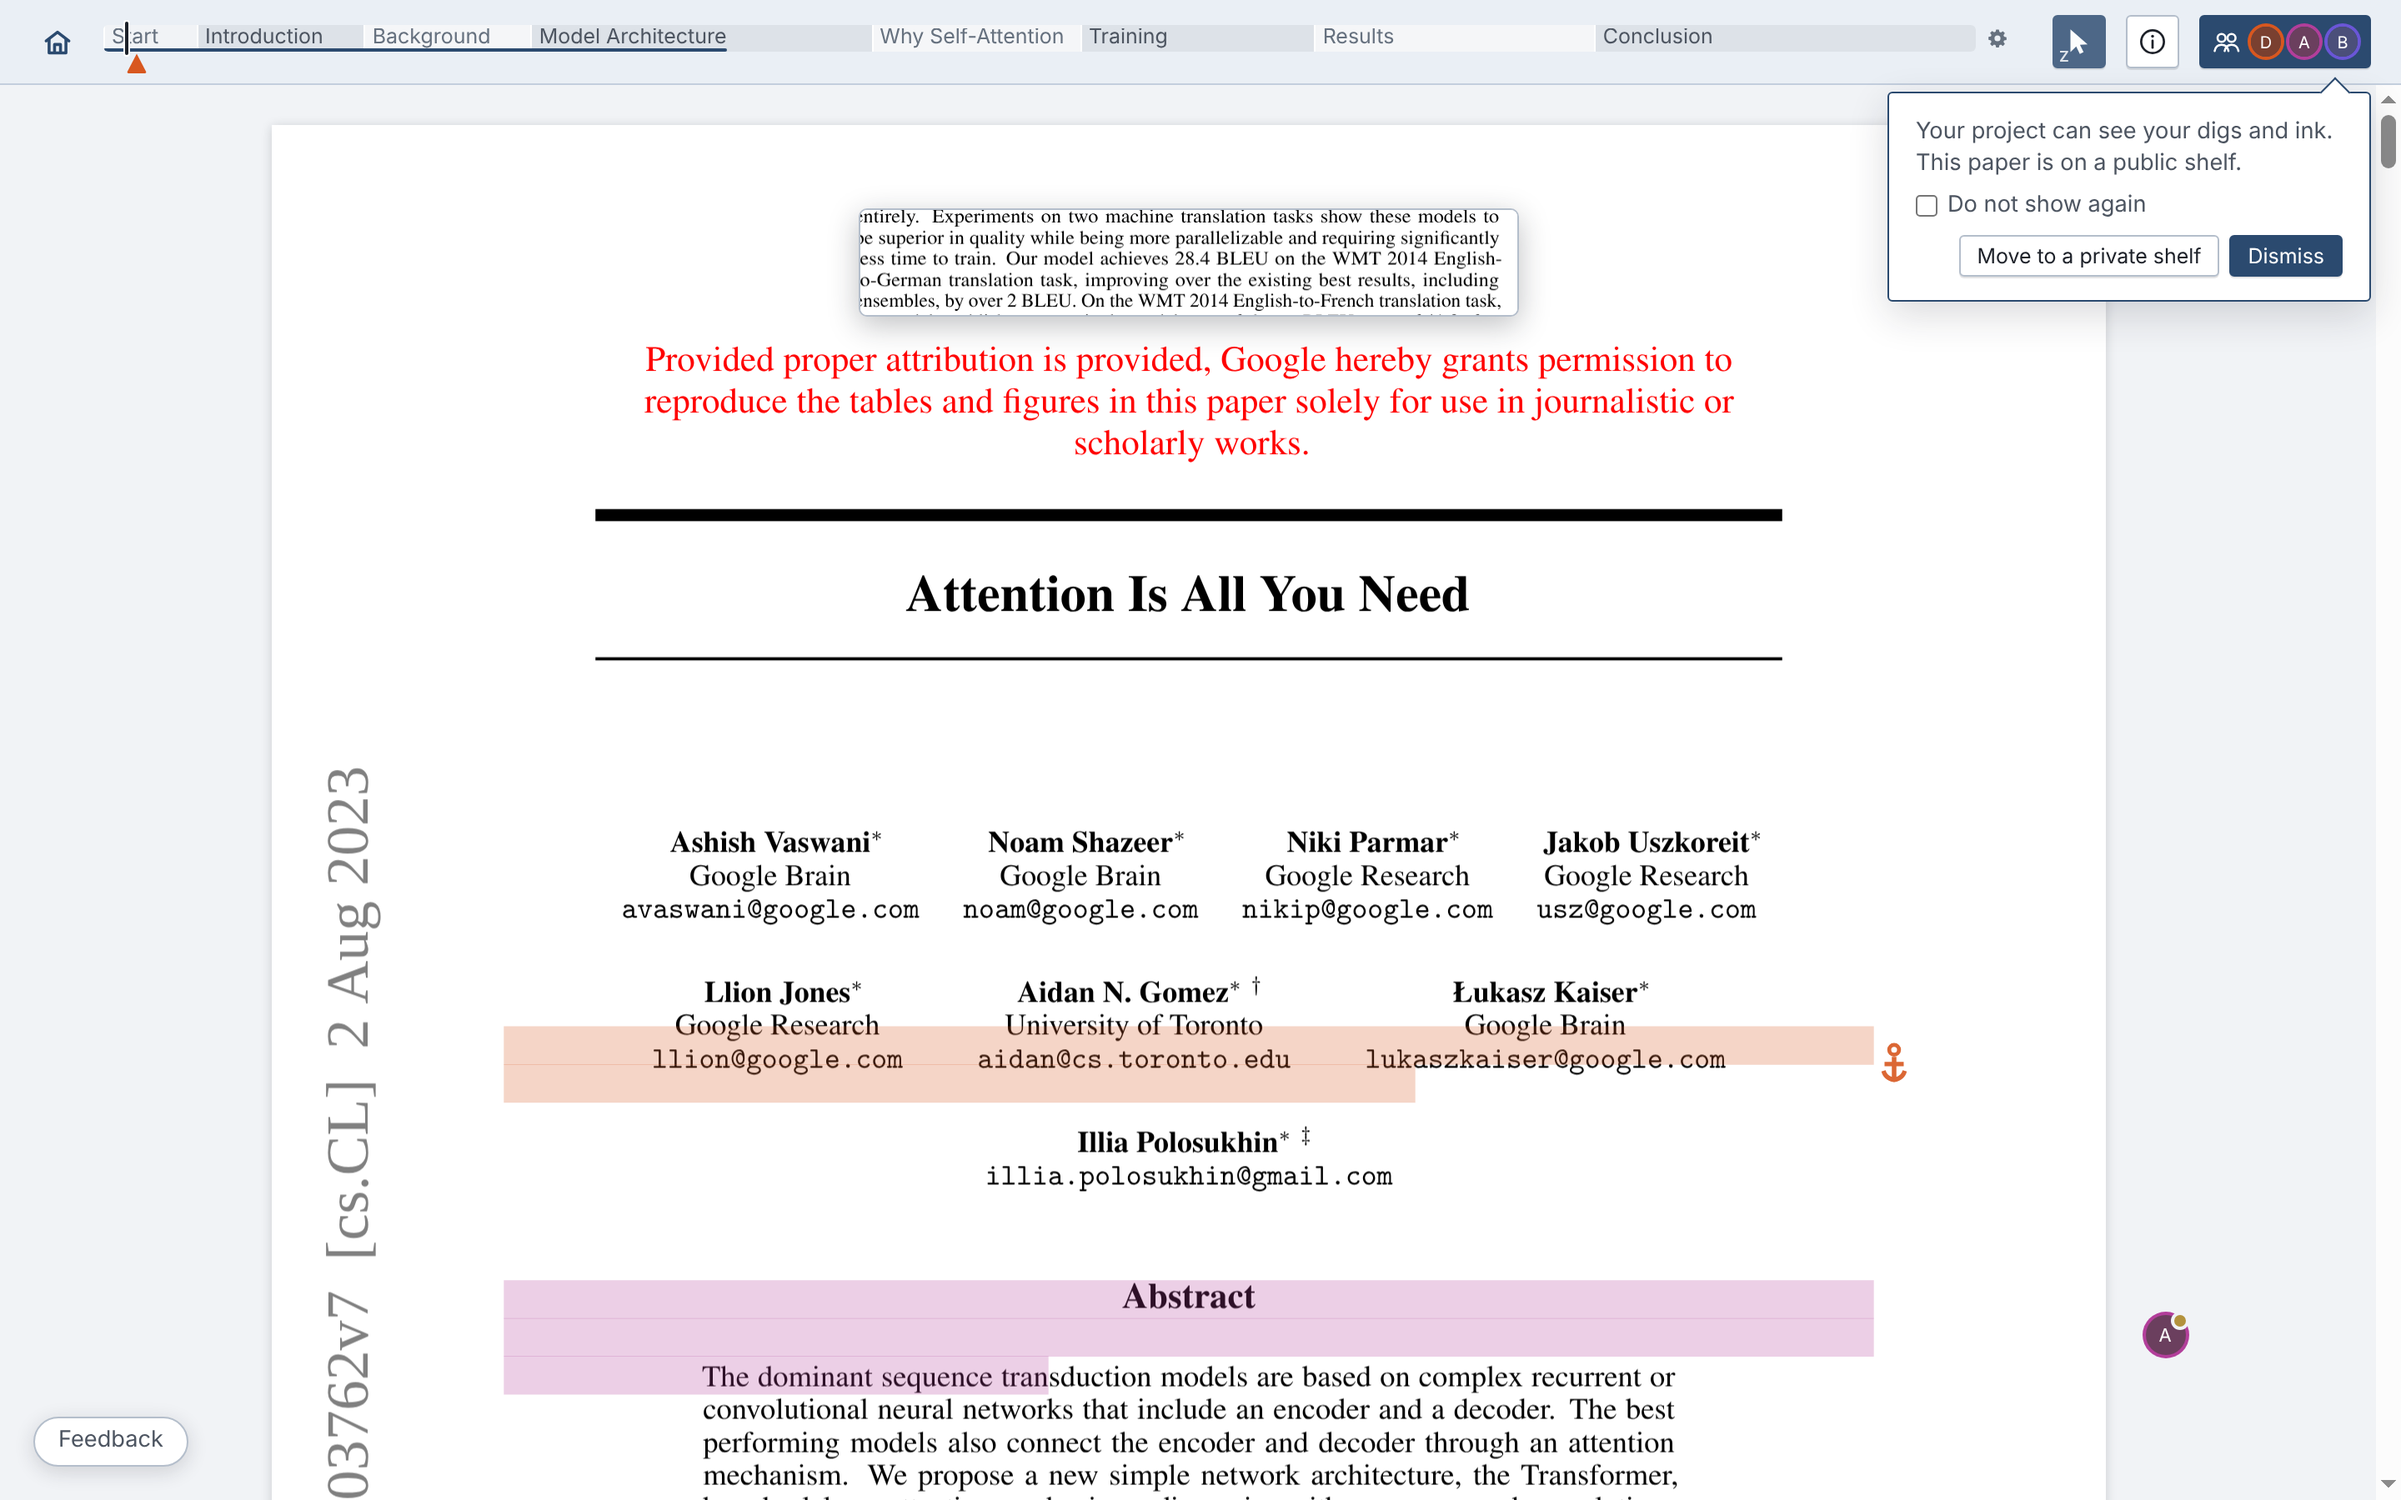
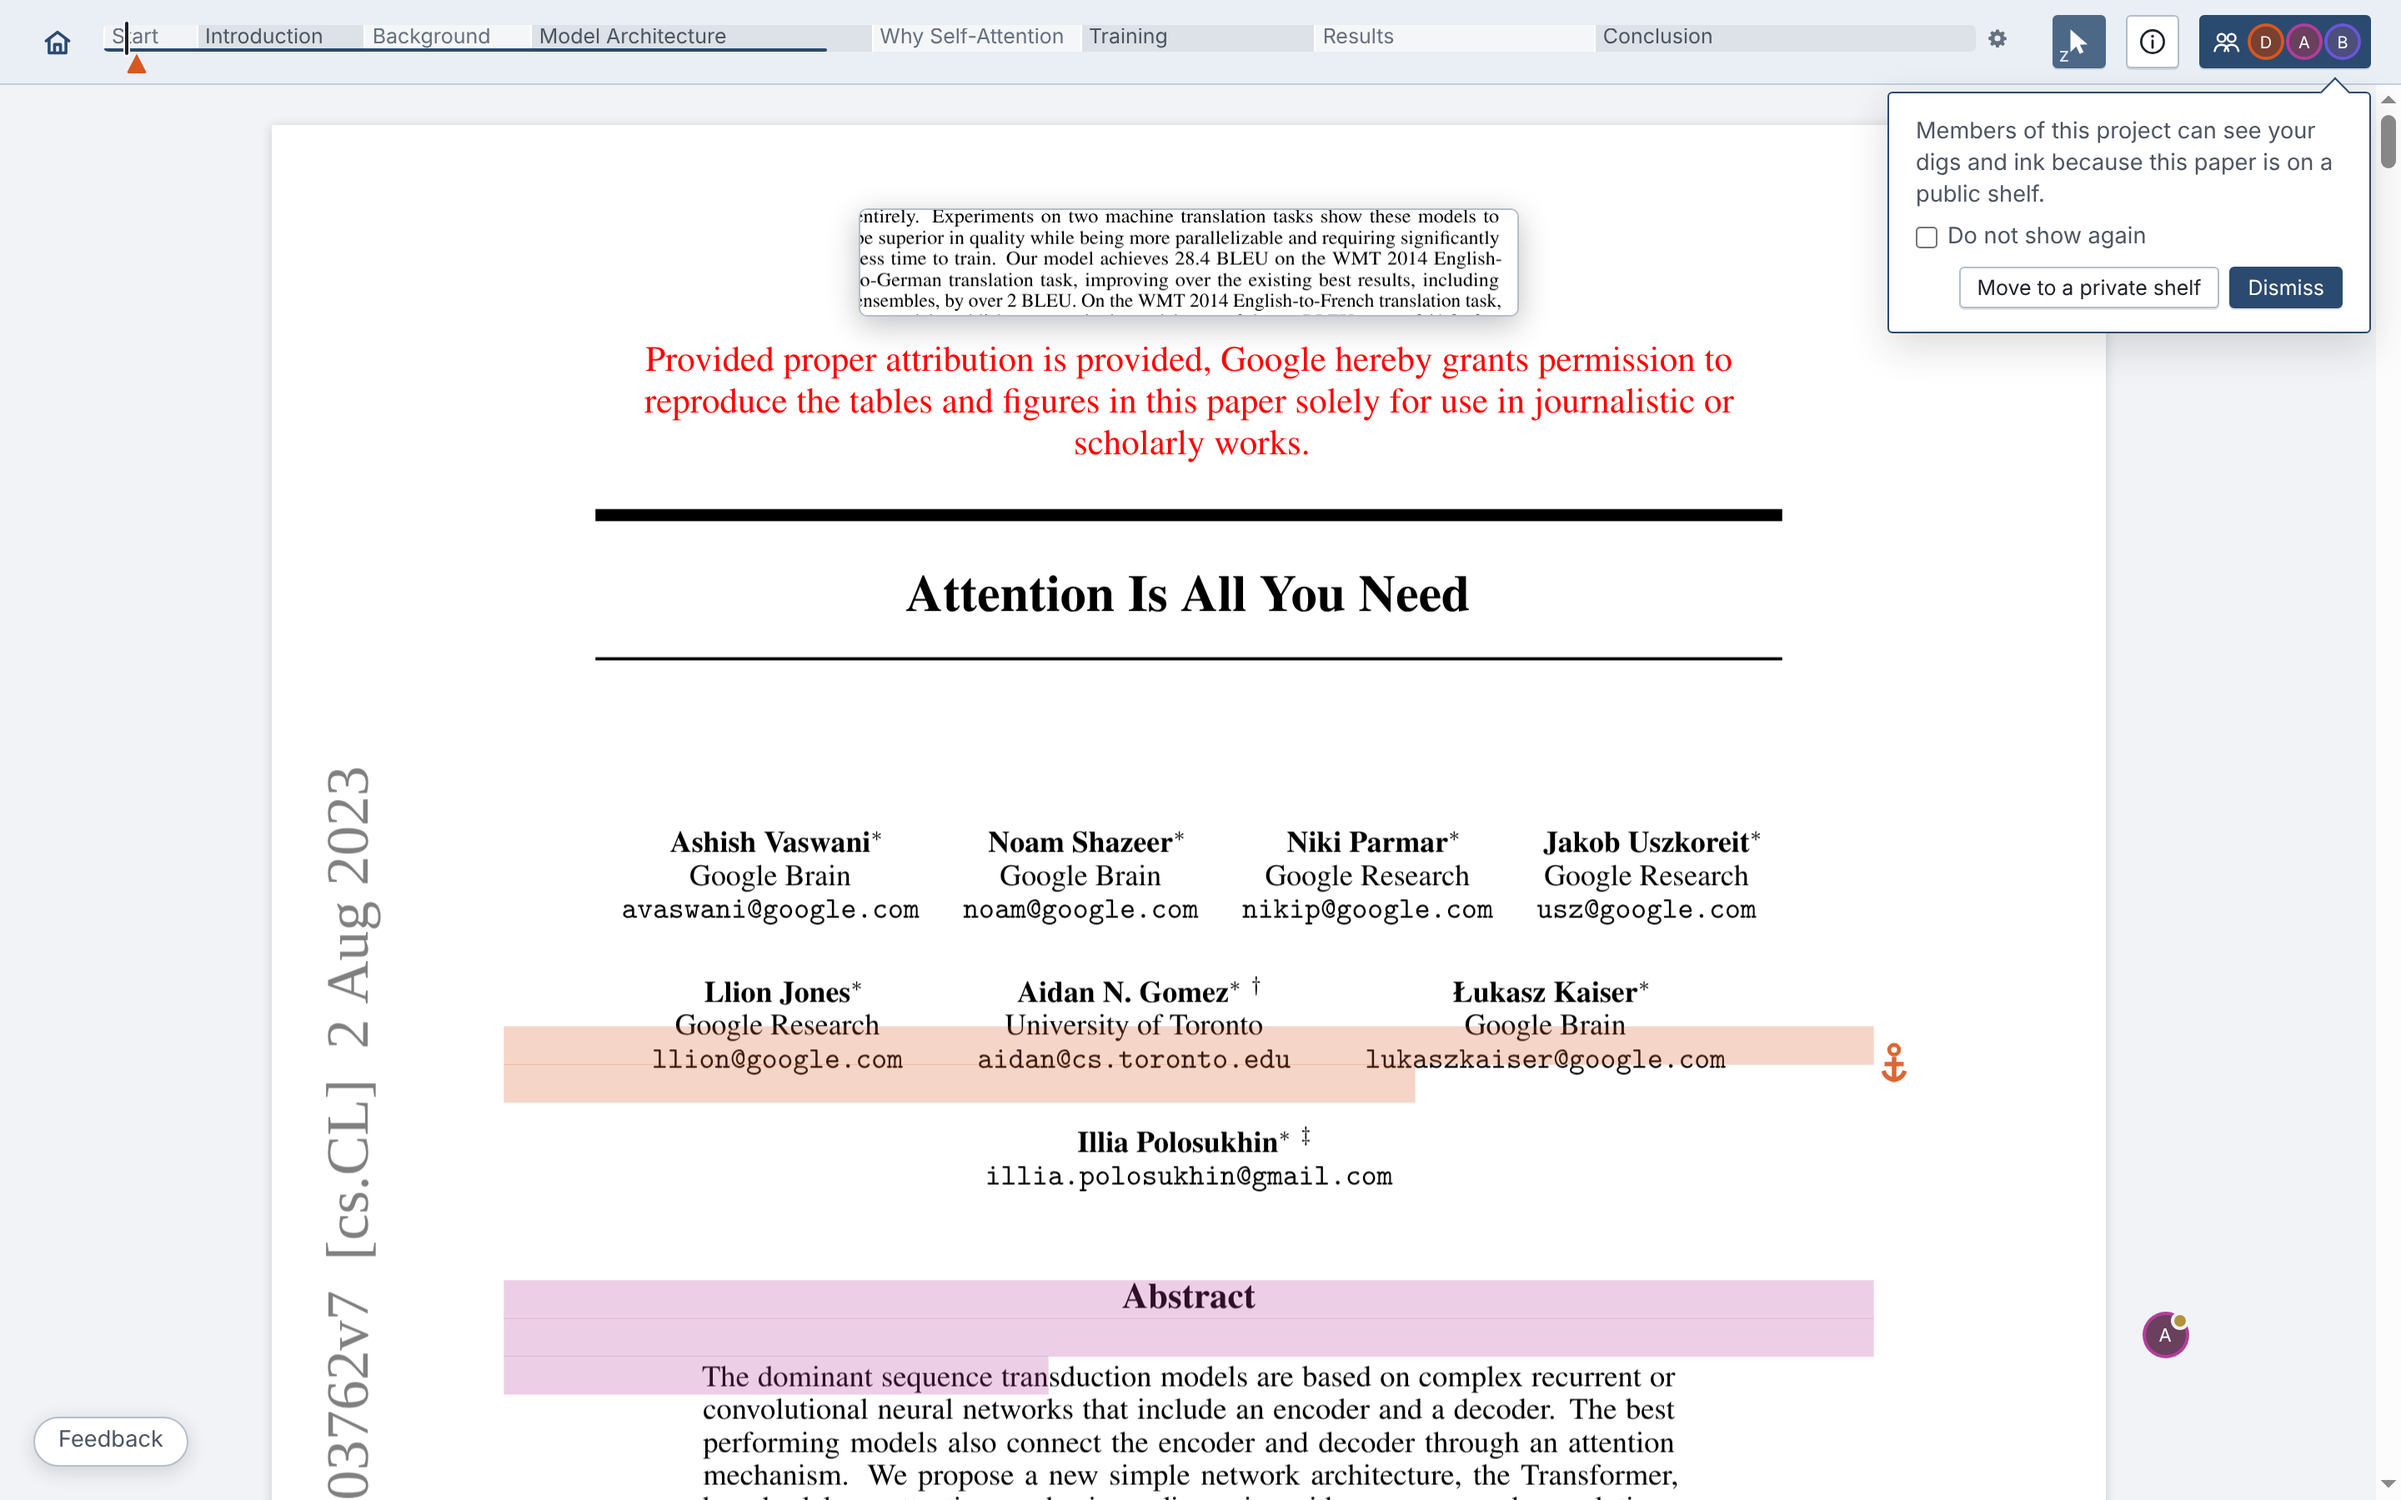
Viewer: the project tip names the members and says because
Claude-Session: https://claude.ai/code/session_01PQZzMTGjGHdUVc3msWkwyr

Changed region(s): [[0.7812, 0.0622, 1.0, 0.2178]]

diff --git a/viewer/src/App.jsx b/viewer/src/App.jsx
@@ -4735,8 +4735,8 @@ export default function App() {
                       <>
                         <span>
                           {projectView.myShelf === 'public'
-                            ? 'Your project can see your digs and ink. This paper is on a public shelf.'
-                            : 'Only you can see your digs and ink. This paper is on a private shelf.'}
+                            ? 'Members of this project can see your digs and ink because this paper is on a public shelf.'
+                            : 'Only you can see your digs and ink because this paper is on a private shelf.'}
                         </span>
                         <label className="storage-notice-opt-out">
                           <input
